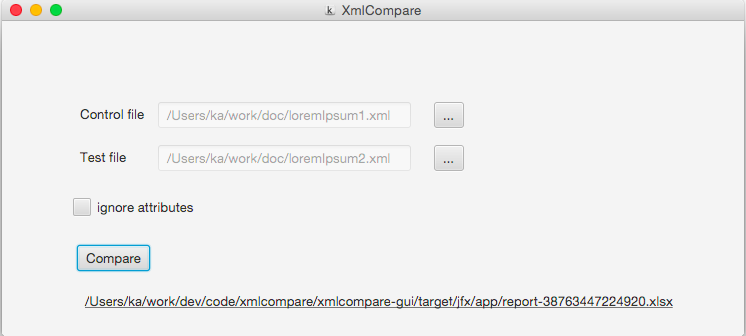
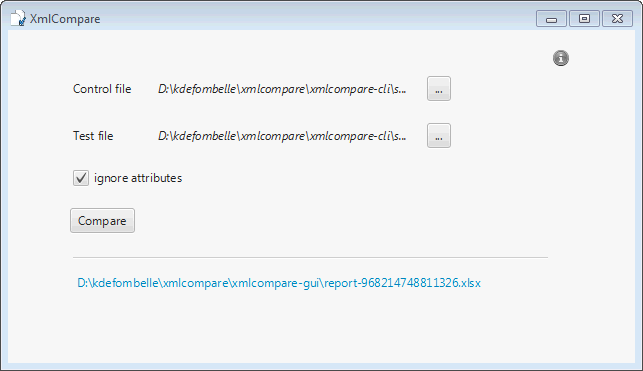
labels instead of text fields to display selected files

diff --git a/xmlcompare-core/src/main/java/fr/kdefombelle/xmlcompare/core/SimpleXmlComparator.java b/xmlcompare-core/src/main/java/fr/kdefombelle/xmlcompare/core/SimpleXmlComparator.java
@@ -11,6 +11,9 @@ import java.io.Reader;
 import java.util.ArrayList;
 import java.util.List;
 
+import javax.xml.parsers.DocumentBuilderFactory;
+import javax.xml.parsers.ParserConfigurationException;
+
 import org.custommonkey.xmlunit.DetailedDiff;
 import org.custommonkey.xmlunit.Diff;
 import org.custommonkey.xmlunit.Difference;
@@ -34,17 +37,17 @@ public class SimpleXmlComparator implements XmlComparator {
 
     @Override
     public List<Difference> compare(File controlXml, File testXml) {
-        return compare(controlXml, testXml, false);
+        return compare(controlXml, testXml, new XmlComparatorConfiguration());
     }
 
     @Override
-    public List<Difference> compare(File controlXml, File testXml, boolean ignoreAttributes) {
+    public List<Difference> compare(File controlXml, File testXml, XmlComparatorConfiguration configuration) {
         if (controlXml == null)
             throw new IllegalArgumentException("Control file is null");
         if (testXml == null)
             throw new IllegalArgumentException("Test file is null");
         logger.info("Comparing control [" + controlXml + "] and test [" + testXml + "]");
-        logger.info("ignoreAttributes? : [" + ignoreAttributes + "]");
+        logger.info("ignoreAttributes? : [" + configuration.isIgnoreAttributes() + "]");
 
         FileReader control;
         FileReader test;
@@ -54,26 +57,35 @@ public class SimpleXmlComparator implements XmlComparator {
         } catch (FileNotFoundException e) {
             throw new XmlCompareException("Error while loadind file content from control [" + controlXml + "] or test [" + testXml + "]", e);
         }
-        return compare(control, test, ignoreAttributes);
+        return compare(control, test, configuration);
     }
 
     @Override
     public List<Difference> compare(Reader control, Reader test) {
-        return compare(control, test, false);
+        return compare(control, test, new XmlComparatorConfiguration());
     }
 
     @Override
     @SuppressWarnings("unchecked")
-    public List<Difference> compare(Reader control, Reader test, boolean ignoreAttributes) {
+    public List<Difference> compare(Reader control, Reader test, XmlComparatorConfiguration configuration) {
         List<Difference> differences = new ArrayList<>();
         try {
-            XMLUnit.setIgnoreWhitespace(false);
+            XMLUnit.setIgnoreWhitespace(true);
             XMLUnit.setIgnoreComments(true);
-            XMLUnit.setIgnoreAttributeOrder(false);
+            XMLUnit.setIgnoreAttributeOrder(true);
+
+            DocumentBuilderFactory dbf = DocumentBuilderFactory.newInstance();
+            dbf.setValidating(false);
+            dbf.setFeature("http://xml.org/sax/features/namespaces", false);
+            dbf.setFeature("http://xml.org/sax/features/validation", false);
+            dbf.setFeature("http://apache.org/xml/features/nonvalidating/load-dtd-grammar", false);
+            dbf.setFeature("http://apache.org/xml/features/nonvalidating/load-external-dtd", false);
+            XMLUnit.setTestDocumentBuilderFactory(dbf);
+            XMLUnit.setControlDocumentBuilderFactory(dbf);
 
             Diff diff = new Diff(control, test);
             DetailedDiff detailedDiff = new DetailedDiff(diff);
-            if (ignoreAttributes)
+            if (configuration.isIgnoreAttributes())
                 detailedDiff.overrideDifferenceListener(new IgnoreAttributesDifferenceListener());
 
             differences = detailedDiff.getAllDifferences();
@@ -81,7 +93,8 @@ public class SimpleXmlComparator implements XmlComparator {
             logger.debug("documents identical? : " + diff.identical());
             logger.debug("documents similar? : " + diff.similar());
             logger.debug(differences.size() + " differences found");
-        } catch (SAXException | IOException e) {
+        } catch (SAXException | IOException | ParserConfigurationException e) {
+            logger.debug("Error while comparing the documents", e);
             throw new XmlCompareException("Error while comparing the documents", e);
         }
         return differences;

diff --git a/xmlcompare-gui/src/main/java/fr/kdefombelle/xmlcompare/gui/XmlCompareController.java b/xmlcompare-gui/src/main/java/fr/kdefombelle/xmlcompare/gui/XmlCompareController.java
@@ -15,7 +15,6 @@ import javafx.scene.control.Dialog;
 import javafx.scene.control.Hyperlink;
 import javafx.scene.control.Label;
 import javafx.scene.control.ProgressBar;
-import javafx.scene.control.TextField;
 import javafx.scene.control.Tooltip;
 import javafx.scene.image.Image;
 import javafx.scene.image.ImageView;
@@ -28,6 +27,7 @@ import javafx.util.Pair;
 import org.slf4j.Logger;
 import org.slf4j.LoggerFactory;
 
+import fr.kdefombelle.xmlcompare.core.XmlComparatorConfiguration;
 import fr.kdefombelle.xmlcompare.gui.model.XmlCompareParameters;
 
 
@@ -39,10 +39,6 @@ public class XmlCompareController extends AnchorPane {
 
     private final Logger logger = LoggerFactory.getLogger(XmlCompareController.class);
 
-    @FXML
-    private TextField controlFileTextField;
-    @FXML
-    private TextField testFileTextField;
     @FXML
     private Button compareButton;
     @FXML
@@ -57,6 +53,10 @@ public class XmlCompareController extends AnchorPane {
     private ProgressBar progressBar;
     @FXML
     private Label progressLabel;
+    @FXML
+    private Label testFileLabel;
+    @FXML
+    private Label controlFileLabel;
 
     private XmlCompareGuiMain application;
 
@@ -74,8 +74,6 @@ public class XmlCompareController extends AnchorPane {
     @FXML
     private void initialize() {
         logger.debug("Initialise controller");
-        controlFileTextField.setTooltip(new Tooltip("Enter absolute path of your control file"));
-        testFileTextField.setTooltip(new Tooltip("Enter absolute path of your test file"));
         ignoreAttributesCheckbox.setIndeterminate(false);
 
         progressBar.visibleProperty().bind(service.runningProperty());
@@ -102,7 +100,9 @@ public class XmlCompareController extends AnchorPane {
 
         service.setControlFile(controlFile);
         service.setTestFile(testFile);
-        service.setIgnoreAttributes(parameters.isIgnoreAttributes());
+        XmlComparatorConfiguration configuration = new XmlComparatorConfiguration();
+        configuration.setIgnoreAttributes(parameters.isIgnoreAttributes());
+        service.setXmlComparatorConfiguration(configuration);
         service.restart();
         service.setOnSucceeded(new EventHandler<WorkerStateEvent>() {
 
@@ -139,10 +139,12 @@ public class XmlCompareController extends AnchorPane {
 
     @FXML
     private void openControlFileChooser(ActionEvent event) {
-        String controleFileName = openFileChooser((Button) event.getSource());
-        if (!controleFileName.isEmpty()) {
-            controlFileTextField.setText(controleFileName);
-            parameters.setControlFileName(controleFileName);
+        String controlFileName = openFileChooser((Button) event.getSource());
+        if (!controlFileName.isEmpty()) {
+            controlFileLabel.setText(controlFileName);
+            Tooltip.install(controlFileLabel, new Tooltip(controlFileName));
+//            controlFileTextField.setText(controleFileName);
+            parameters.setControlFileName(controlFileName);
         }
     }
 
@@ -150,7 +152,9 @@ public class XmlCompareController extends AnchorPane {
     private void openTestFileChooser(ActionEvent event) {
         String testFileName = openFileChooser((Button) event.getSource());
         if (!testFileName.isEmpty()) {
-            testFileTextField.setText(testFileName);
+            testFileLabel.setText(testFileName);
+            Tooltip.install(testFileLabel, new Tooltip(testFileName));
+//            testFileTextField.setText(testFileName);
             parameters.setTestFileName(testFileName);
         }
     }

diff --git a/xmlcompare-core/src/test/java/fr/kdefombelle/xmlcompare/core/SimpleXmlComparatorTest.java b/xmlcompare-core/src/test/java/fr/kdefombelle/xmlcompare/core/SimpleXmlComparatorTest.java
@@ -7,7 +7,6 @@ import java.io.File;
 import java.net.URL;
 import java.util.List;
 
-import fr.kdefombelle.xmlcompare.core.SimpleXmlComparator;
 import org.custommonkey.xmlunit.Difference;
 import org.junit.Assert;
 import org.junit.Test;
@@ -31,7 +30,8 @@ public class SimpleXmlComparatorTest {
         File file1 = new File(url1.getFile());
         URL url2 = this.getClass().getClassLoader().getResource("xml2.xml");
         File file2 = new File(url2.getFile());
-        List<Difference> differences = xmlComparator.compare(file1, file2, false);
+        XmlComparatorConfiguration configuration = new XmlComparatorConfiguration();
+        List<Difference> differences = xmlComparator.compare(file1, file2, configuration);
         Assert.assertTrue(differences.size() != 0);
     }
 
@@ -41,8 +41,22 @@ public class SimpleXmlComparatorTest {
         File file1 = new File(url1.getFile());
         URL url2 = this.getClass().getClassLoader().getResource("xml2.xml");
         File file2 = new File(url2.getFile());
-        List<Difference> differences = xmlComparator.compare(file1, file2, true);
+        XmlComparatorConfiguration configuration = new XmlComparatorConfiguration();
+        configuration.setIgnoreAttributes(true);
+        List<Difference> differences = xmlComparator.compare(file1, file2, configuration);
         Assert.assertTrue(differences.size() == 0);
     }
+
+//    @Test
+//    public void testCompareIgnoredXpaths() throws Exception {
+//        URL url1 = this.getClass().getClassLoader().getResource("xml1.xml");
+//        File file1 = new File(url1.getFile());
+//        URL url2 = this.getClass().getClassLoader().getResource("xml2.xml");
+//        File file2 = new File(url2.getFile());
+//        XmlComparatorConfiguration configuration = new XmlComparatorConfiguration();
+//        configuration.setIgnoredXpaths(Arrays.asList("\\/test\\[1\\]/children\\[1\\]/child\\[4\\]/\\@id"));
+//        List<Difference> differences = xmlComparator.compare(file1, file2, configuration);
+//        Assert.assertTrue(differences.size() == 0);
+//    }
 
 }

diff --git a/xmlcompare-gui/src/main/java/fr/kdefombelle/xmlcompare/gui/XmlCompareTask.java b/xmlcompare-gui/src/main/java/fr/kdefombelle/xmlcompare/gui/XmlCompareTask.java
@@ -11,6 +11,7 @@ import org.custommonkey.xmlunit.Difference;
 
 import fr.kdefombelle.xmlcompare.core.ExcelDifferenceWriter;
 import fr.kdefombelle.xmlcompare.core.SimpleXmlComparator;
+import fr.kdefombelle.xmlcompare.core.XmlComparatorConfiguration;
 
 
 public class XmlCompareTask extends Task<ObservableList<String>> {
@@ -26,7 +27,7 @@ public class XmlCompareTask extends Task<ObservableList<String>> {
     //~ ----------------------------------------------------------------------------------------------------------------
 
     private SimpleXmlComparator xmlComparator = new SimpleXmlComparator();
-    private boolean ignoreAttributes;
+    private XmlComparatorConfiguration configuration;
     private File controlFile;
     private File testFile;
 
@@ -34,10 +35,10 @@ public class XmlCompareTask extends Task<ObservableList<String>> {
     //~ Constructors 
     //~ ----------------------------------------------------------------------------------------------------------------
 
-    public XmlCompareTask(File controlFile, File testFile, boolean ignoreAttributes) {
+    public XmlCompareTask(File controlFile, File testFile, XmlComparatorConfiguration configuration) {
         this.controlFile = controlFile;
         this.testFile = testFile;
-        this.ignoreAttributes = ignoreAttributes;
+        this.configuration = configuration;
     }
 
     //~ ----------------------------------------------------------------------------------------------------------------
@@ -49,7 +50,7 @@ public class XmlCompareTask extends Task<ObservableList<String>> {
         updateProgress(0, 100);
         updateMessage("start comparison");
         Thread.sleep(PAUSE);
-        List<Difference> differences = xmlComparator.compare(controlFile, testFile, ignoreAttributes);
+        List<Difference> differences = xmlComparator.compare(controlFile, testFile, configuration);
 
         updateProgress(0, 100);
         updateMessage("writing report");

diff --git a/xmlcompare-cli/src/main/java/fr/kdefombelle/xmlcompare/cli/XmlComparatorClient.java b/xmlcompare-cli/src/main/java/fr/kdefombelle/xmlcompare/cli/XmlComparatorClient.java
@@ -8,8 +8,6 @@ import java.io.IOException;
 import java.util.Arrays;
 import java.util.List;
 
-import fr.kdefombelle.xmlcompare.core.ExcelDifferenceWriter;
-import fr.kdefombelle.xmlcompare.core.SimpleXmlComparator;
 import joptsimple.OptionParser;
 import joptsimple.OptionSet;
 import joptsimple.OptionSpec;
@@ -17,6 +15,10 @@ import joptsimple.OptionSpec;
 import org.custommonkey.xmlunit.Difference;
 import org.slf4j.Logger;
 import org.slf4j.LoggerFactory;
+
+import fr.kdefombelle.xmlcompare.core.ExcelDifferenceWriter;
+import fr.kdefombelle.xmlcompare.core.SimpleXmlComparator;
+import fr.kdefombelle.xmlcompare.core.XmlComparatorConfiguration;
 
 
 /**
@@ -85,7 +87,9 @@ public class XmlComparatorClient {
         String reportFileName = options.valueOf(reportFileOption);
 
         SimpleXmlComparator xmlComparator = new SimpleXmlComparator();
-        List<Difference> differences = xmlComparator.compare(xmlControl, xmlTest, options.has(ignoreAttributesOption));
+        XmlComparatorConfiguration configuration = new XmlComparatorConfiguration();
+        configuration.setIgnoreAttributes(options.has(ignoreAttributesOption));
+        List<Difference> differences = xmlComparator.compare(xmlControl, xmlTest, configuration);
 
         ExcelDifferenceWriter excelWriter = new ExcelDifferenceWriter(reportFileName);
         excelWriter.write(xmlControl, xmlTest, differences);

diff --git a/xmlcompare-gui/src/main/java/fr/kdefombelle/xmlcompare/gui/XmlCompareService.java b/xmlcompare-gui/src/main/java/fr/kdefombelle/xmlcompare/gui/XmlCompareService.java
@@ -5,6 +5,7 @@ import java.io.File;
 import javafx.collections.ObservableList;
 import javafx.concurrent.Service;
 import javafx.concurrent.Task;
+import fr.kdefombelle.xmlcompare.core.XmlComparatorConfiguration;
 
 
 public class XmlCompareService extends Service<ObservableList<String>> {
@@ -15,7 +16,7 @@ public class XmlCompareService extends Service<ObservableList<String>> {
 
     private File controlFile;
     private File testFile;
-    private boolean ignoreAttributes;
+    private XmlComparatorConfiguration configuration;
 
     //~ ----------------------------------------------------------------------------------------------------------------
     //~ Methods 
@@ -29,13 +30,13 @@ public class XmlCompareService extends Service<ObservableList<String>> {
         this.testFile = testFile;
     }
 
-    public void setIgnoreAttributes(boolean ignoreAttributes) {
-        this.ignoreAttributes = ignoreAttributes;
+    public void setXmlComparatorConfiguration(XmlComparatorConfiguration configuration) {
+        this.configuration = configuration;
     }
 
     @Override
     protected Task<ObservableList<String>> createTask() {
-        return new XmlCompareTask(controlFile, testFile, ignoreAttributes);
+        return new XmlCompareTask(controlFile, testFile, configuration);
     }
 
 }

diff --git a/xmlcompare-core/src/main/java/fr/kdefombelle/xmlcompare/core/XmlComparatorConfiguration.java b/xmlcompare-core/src/main/java/fr/kdefombelle/xmlcompare/core/XmlComparatorConfiguration.java
@@ -1,0 +1,36 @@
+package fr.kdefombelle.xmlcompare.core;
+
+import java.util.ArrayList;
+import java.util.List;
+
+
+public class XmlComparatorConfiguration {
+
+    //~ ----------------------------------------------------------------------------------------------------------------
+    //~ Instance fields 
+    //~ ----------------------------------------------------------------------------------------------------------------
+
+    private boolean ignoreAttributes;
+    private List<String> ignoredXpaths = new ArrayList<>();
+
+    //~ ----------------------------------------------------------------------------------------------------------------
+    //~ Methods 
+    //~ ----------------------------------------------------------------------------------------------------------------
+
+    public void setIgnoreAttributes(boolean ignoreAttributes) {
+        this.ignoreAttributes = ignoreAttributes;
+    }
+
+    public void setIgnoredXpaths(List<String> ignoredXpaths) {
+        this.ignoredXpaths = ignoredXpaths;
+    }
+
+    public boolean isIgnoreAttributes() {
+        return ignoreAttributes;
+    }
+
+    public List<String> getIgnoredXpaths() {
+        return ignoredXpaths;
+    }
+
+}

diff --git a/xmlcompare-core/src/main/java/fr/kdefombelle/xmlcompare/core/XmlComparator.java b/xmlcompare-core/src/main/java/fr/kdefombelle/xmlcompare/core/XmlComparator.java
@@ -15,10 +15,10 @@ public interface XmlComparator {
 
     List<Difference> compare(File controlXml, File testXml);
 
-    List<Difference> compare(File controlXml, File testXml, boolean ignoreAttributes);
+    List<Difference> compare(File controlXml, File testXml, XmlComparatorConfiguration configuration);
 
     List<Difference> compare(Reader control, Reader test);
 
-    List<Difference> compare(Reader control, Reader test, boolean ignoreAttributes);
+    List<Difference> compare(Reader control, Reader test, XmlComparatorConfiguration configuration);
 
 }
